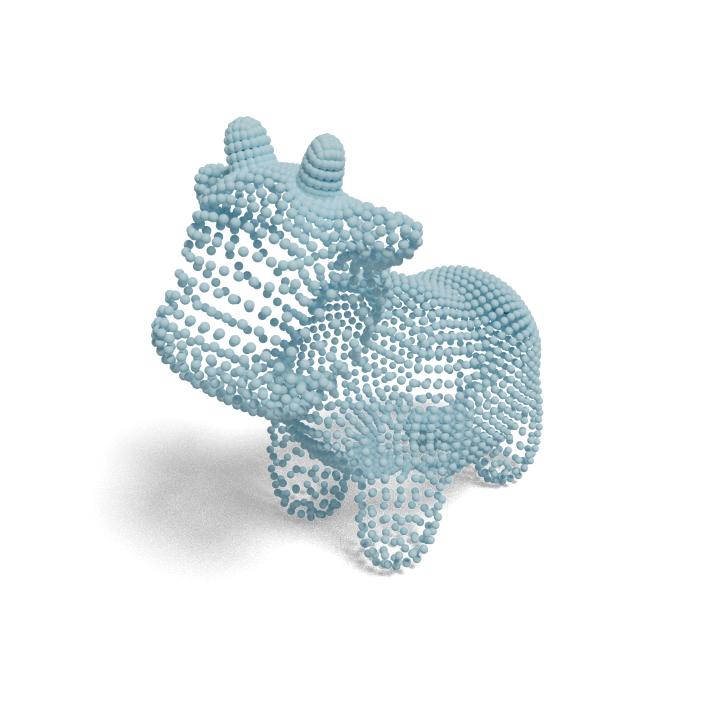
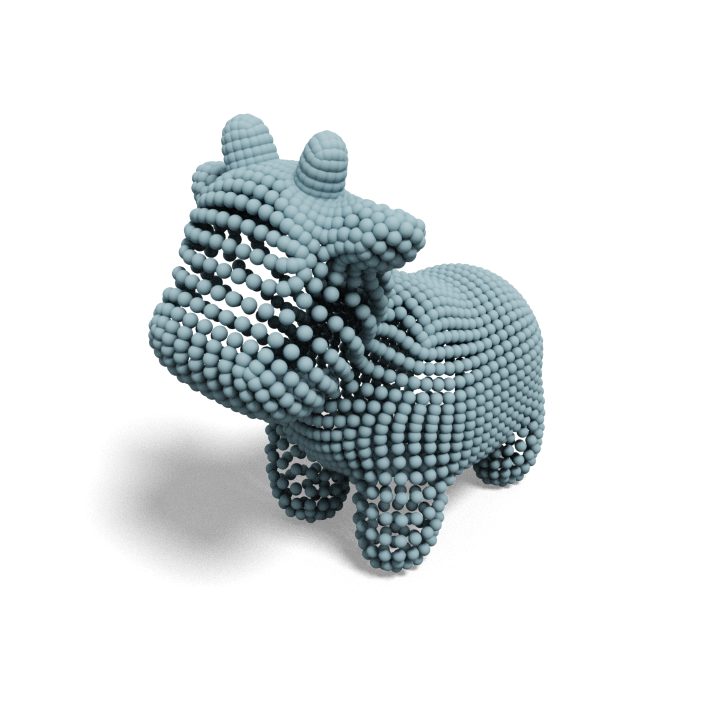
change setmat point cloud to handle blender 3.2.1

Changed region(s): [[0.1833, 0.1528, 0.7639, 0.825]]

diff --git a/BlenderToolBox/setMat_pointCloud.py b/BlenderToolBox/setMat_pointCloud.py
@@ -12,6 +12,7 @@
 # See the License for the specific language governing permissions and
 # limitations under the License.
 import bpy
+from mathutils import Vector
 
 def setMat_pointCloud(mesh, \
                 meshColor, \
@@ -62,7 +63,12 @@ def setMat_pointCloud(mesh, \
     bpy.context.view_layer.objects.active = mesh
 
     bpy.ops.object.modifier_add(type='NODES')
-    tree = mesh.modifiers[-1].node_group
+    if mesh.modifiers[-1].node_group:
+        tree = curve.modifiers[-1].node_group    
+    else:
+        tree = new_GeometryNodes_group()
+        mesh.modifiers[-1].node_group = tree
+
     IN = tree.nodes['Group Input']
     OUT = tree.nodes['Group Output']
     MESH2POINT = tree.nodes.new('GeometryNodeMeshToPoints')
@@ -78,38 +84,16 @@ def setMat_pointCloud(mesh, \
     MATERIAL.inputs[2].default_value = mat
 
 
-    # # initialize a primitive sphere
-    # bpy.ops.mesh.primitive_uv_sphere_add(radius = 1.0, location = (1e7,1e7,1e7))
-    # sphere = bpy.context.object
-    # bpy.ops.object.shade_smooth()
-    # mat = bpy.data.materials.new(name="sphereMat")
-    # sphere.data.materials.append(mat)
-    # sphere.active_material = mat
-    # mat.use_nodes = True
-    # tree = mat.node_tree
-    # HSVNode = tree.nodes.new('ShaderNodeHueSaturation')
-    # HSVNode.inputs['Color'].default_value = ptColor.RGBA
-    # HSVNode.inputs['Saturation'].default_value = ptColor.S
-    # HSVNode.inputs['Value'].default_value = ptColor.V
-    # HSVNode.inputs['Hue'].default_value = ptColor.H
-
-    # # set color brightness/contrast
-    # BCNode = tree.nodes.new('ShaderNodeBrightContrast')
-    # BCNode.inputs['Bright'].default_value = ptColor.B
-    # BCNode.inputs['Contrast'].default_value = ptColor.C
-    # tree.links.new(HSVNode.outputs['Color'], BCNode.inputs['Color'])
-    # tree.links.new(BCNode.outputs['Color'], tree.nodes['Principled BSDF'].inputs['Base Color'])
-
-    # # init particle system
-    # mesh.modifiers.new("part", type='PARTICLE_SYSTEM')
-    # ps = mesh.particle_systems[0]
-    # ps.settings.count = len(mesh.data.vertices)
-    # ps.settings.frame_start = 0
-    # ps.settings.frame_end = 0
-    # ps.settings.emit_from = 'VERT'
-    # ps.settings.physics_type = 'NO'
-    # ps.settings.particle_size = ptSize
-    # ps.settings.render_type = 'OBJECT'
-    # ps.settings.instance_object = sphere
-    # ps.settings.use_emit_random = False
-
+def new_GeometryNodes_group():
+    ''' Create a new empty node group that can be used
+        in a GeometryNodes modifier.
+    '''
+    node_group = bpy.data.node_groups.new('GeometryNodes', 'GeometryNodeTree')
+    inNode = node_group.nodes.new('NodeGroupInput')
+    inNode.outputs.new('NodeSocketGeometry', 'Geometry')
+    outNode = node_group.nodes.new('NodeGroupOutput')
+    outNode.inputs.new('NodeSocketGeometry', 'Geometry')
+    node_group.links.new(inNode.outputs['Geometry'], outNode.inputs['Geometry'])
+    inNode.location = Vector((-1.5*inNode.width, 0))
+    outNode.location = Vector((1.5*outNode.width, 0))
+    return node_group

diff --git a/demos/demo_plastic.py b/demos/demo_plastic.py
@@ -1,0 +1,59 @@
+import sys
+sys.path.append('/Users/hsuehtil/Dropbox/BlenderToolbox/') # change this to your path to “path/to/BlenderToolbox/
+import BlenderToolBox as bt
+import os, bpy, bmesh
+import numpy as np
+cwd = os.getcwd()
+
+outputPath = os.path.join(cwd, './demo_plastic.png') # make it abs path for windows
+
+## initialize blender
+imgRes_x = 480 
+imgRes_y = 480 
+numSamples = 100 
+exposure = 1.5 
+bt.blenderInit(imgRes_x, imgRes_y, numSamples, exposure)
+
+## read mesh (choose either readPLY or readOBJ)
+meshPath = '../meshes/spot.ply'
+location = (1.12, -0.14, 0) # (UI: click mesh > Transform > Location)
+rotation = (90, 0, 227) # (UI: click mesh > Transform > Rotation)
+scale = (1.5,1.5,1.5) # (UI: click mesh > Transform > Scale)
+mesh = bt.readMesh(meshPath, location, rotation, scale)
+
+## set shading (uncomment one of them)
+bpy.ops.object.shade_smooth() 
+
+## subdivision
+bt.subdivision(mesh, level = 2)
+
+# # set material (TODO: this has some new issue due to new version of Blender)
+meshColor = bt.colorObj(bt.derekBlue, 0.5, 1.0, 1.0, 0.0, 2.0)
+bt.setMat_plastic(mesh, meshColor)
+
+## set invisible plane (shadow catcher)
+bt.invisibleGround(shadowBrightness=0.9)
+
+## set camera (recommend to change mesh instead of camera, unless you want to adjust the Elevation)
+camLocation = (3, 0, 2)
+lookAtLocation = (0,0,0.5)
+focalLength = 45 # (UI: click camera > Object Data > Focal Length)
+cam = bt.setCamera(camLocation, lookAtLocation, focalLength)
+
+## set light
+lightAngle = (6, -30, -155) 
+strength = 2
+shadowSoftness = 0.3
+sun = bt.setLight_sun(lightAngle, strength, shadowSoftness)
+
+## set ambient light
+bt.setLight_ambient(color=(0.1,0.1,0.1,1)) 
+
+## set gray shadow to completely white with a threshold 
+bt.shadowThreshold(alphaThreshold = 0.05, interpolationMode = 'CARDINAL')
+
+## save blender file so that you can adjust parameters in the UI
+bpy.ops.wm.save_mainfile(filepath=os.getcwd() + '/test.blend')
+
+## save rendering
+bt.renderImage(outputPath, cam)
